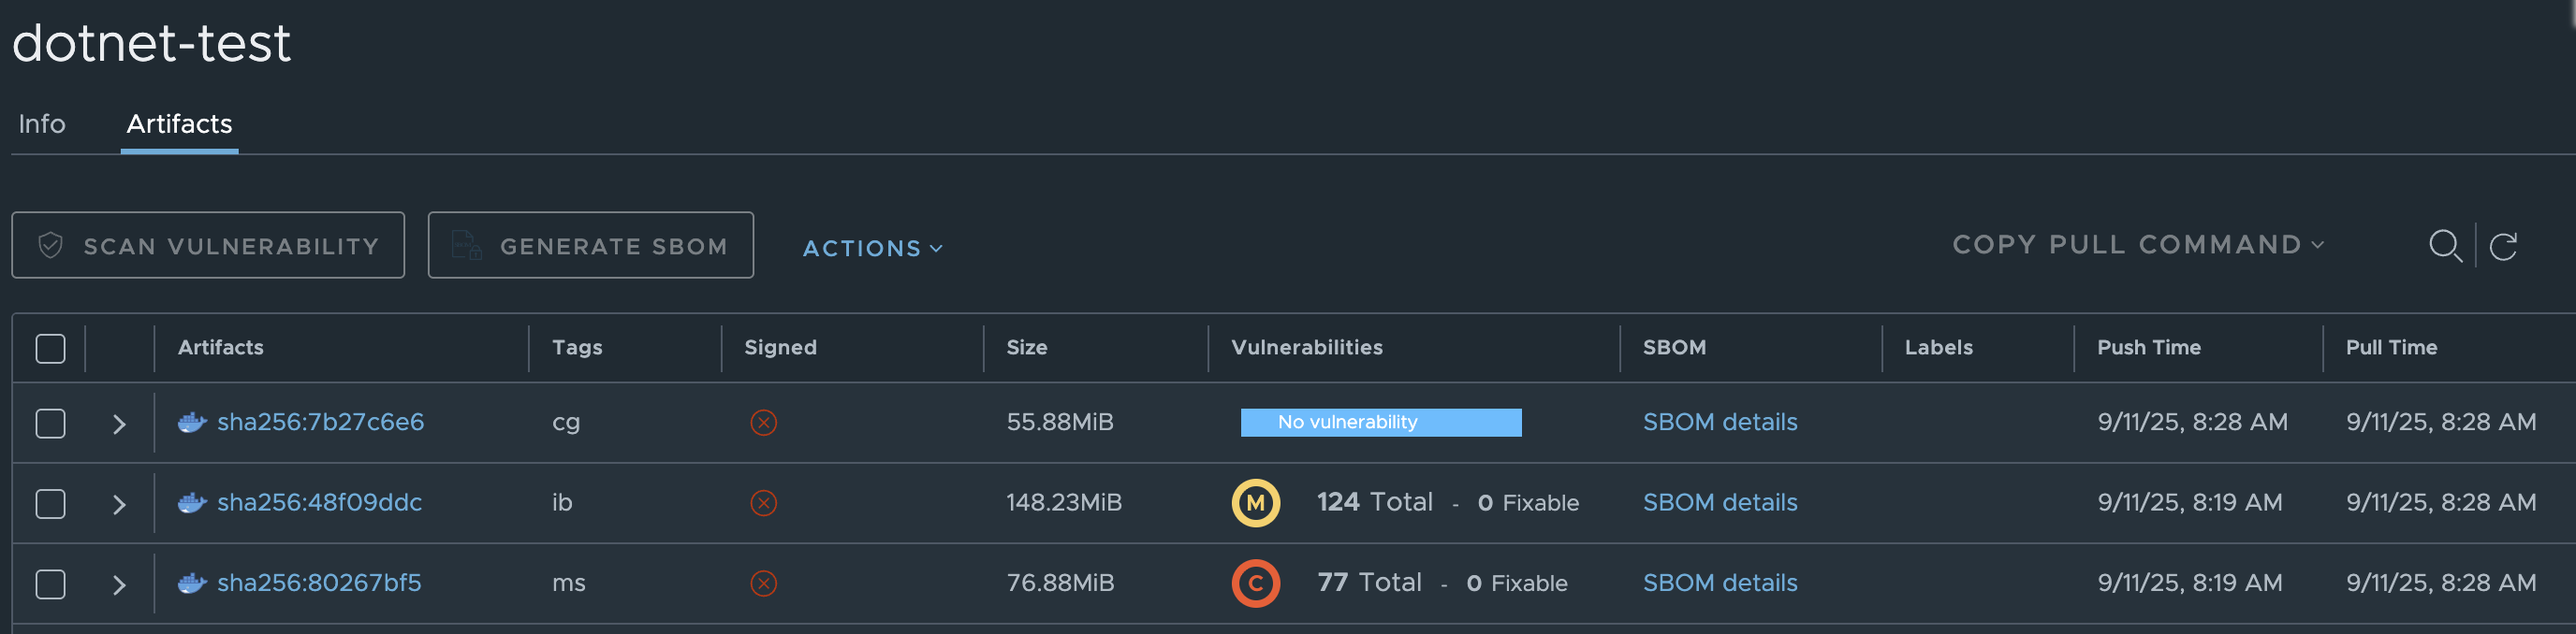
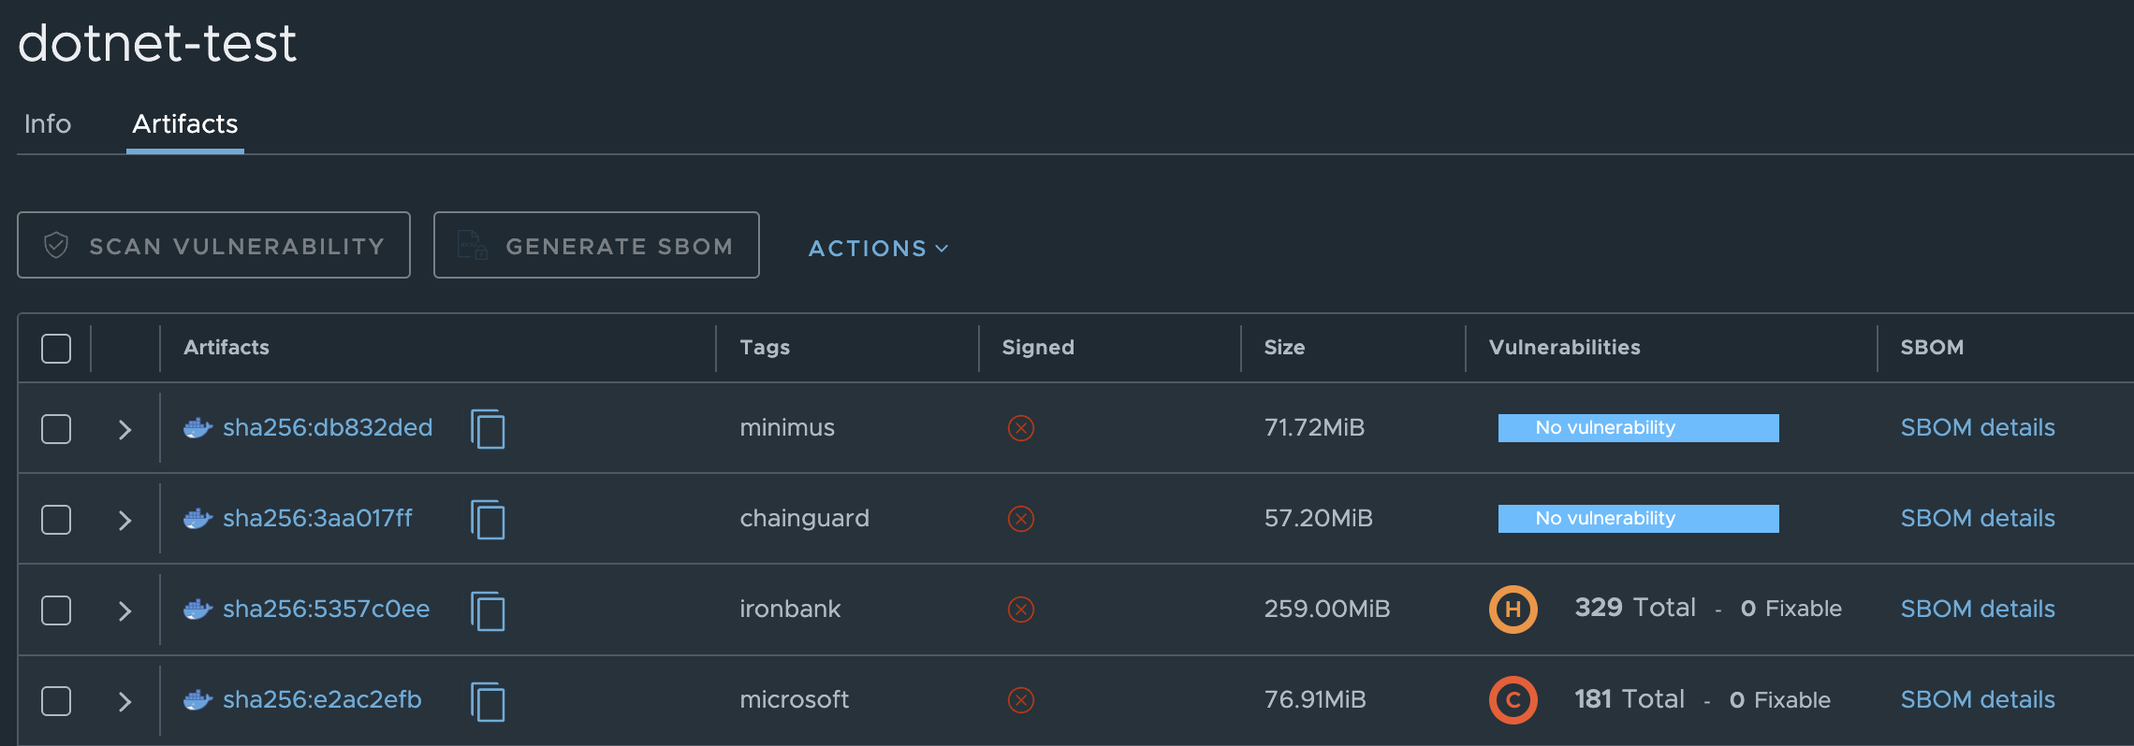
Add Minimus FIPS variant, rename Dockerfiles, wire proxy caches
Rename Dockerfile-MS/IB/CG to Dockerfile-MICROSOFT/IRONBANK/CHAINGUARD
for clarity, point Microsoft and Minimus builds at their Harbor proxy
cache projects instead of pulling directly, add FIPS 140-3 labels and
a README column, and refresh the size/vulnerability comparison table
with real Harbor scan results.

diff --git a/README.md b/README.md
@@ -12,19 +12,19 @@ bash ./generate_dockers.sh
 docker run --rm \
   -e KEYCLOAK_BASE_URL="https://identity.omni.af.mil" \
   -e KEYCLOAK_REALM="OMNI" \
-  registry.omni.af.mil/dotnet_test/dotnet-test:ms
+  registry.omni.af.mil/dotnet_test/dotnet-test:microsoft
 ```
 ```bash
 docker run --rm \
   -e KEYCLOAK_BASE_URL="https://identity.omni.af.mil" \
   -e KEYCLOAK_REALM="OMNI" \
-  registry.omni.af.mil/dotnet_test/dotnet-test:ib
+  registry.omni.af.mil/dotnet_test/dotnet-test:ironbank
 ```
 ```bash
 docker run --rm \
   -e KEYCLOAK_BASE_URL="https://identity.omni.af.mil" \
   -e KEYCLOAK_REALM="OMNI" \
-  registry.omni.af.mil/dotnet_test/dotnet-test:cg
+  registry.omni.af.mil/dotnet_test/dotnet-test:chainguard
 ```
 ```bash
 docker run --rm \
@@ -39,9 +39,9 @@ Check the Newly Uploaded Containers in Harbor, Compare Number of Trivvy Vulnerab
 
 ![Trivvy Compare](Trivvy-Compare.png)
 
-| Tag | Container Size | Total Open Vulnerabilities |
-|-----|----------------|-----------------|
-| `dotnet-test:ms` | 76.88 MiB | 77 |
-| `dotnet-test:ib` | 148.23 MiB | 124 |
-| `dotnet-test:cg` | 55.88 MiB | 0 |
-| `dotnet-test:minimus` | 55.88 MiB | 0 |
+| Tag | Container Size | Total Findings | Fixable | FIPS 140-3 Compliant |
+|-----|----------------|-----------------|-----------------|-----------------|
+| `dotnet-test:microsoft` | 76.91 MiB | 181 | 0 | No |
+| `dotnet-test:ironbank` | 259.00 MiB | 329 | 0 | Yes |
+| `dotnet-test:chainguard` | 57.20 MiB | 0 | 0 | No |
+| `dotnet-test:minimus` | 71.72 MiB | 0 | 0 | Yes |
